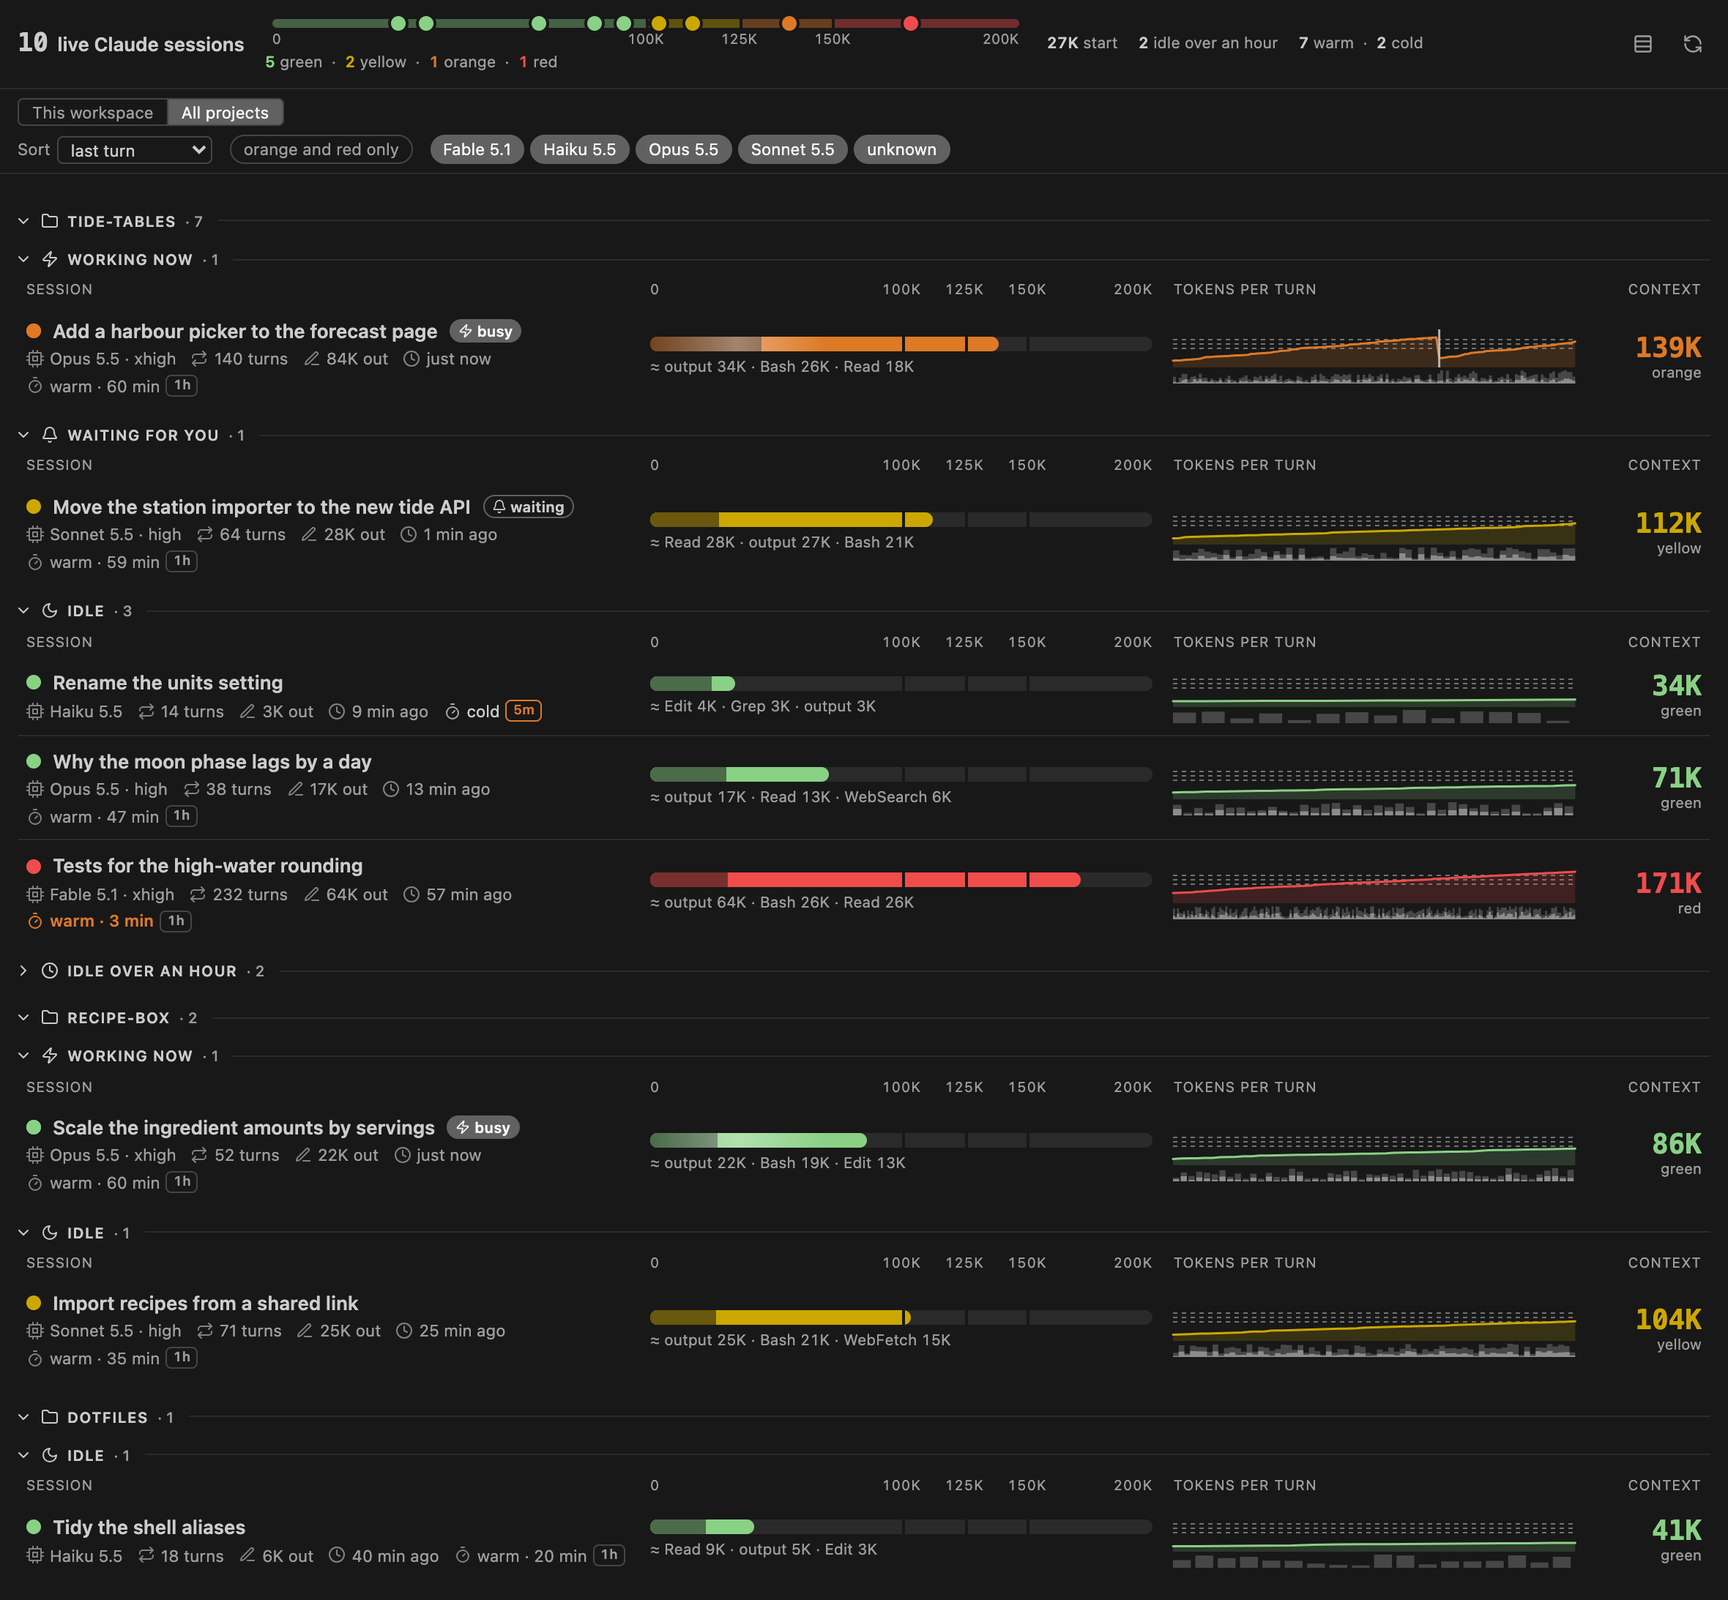
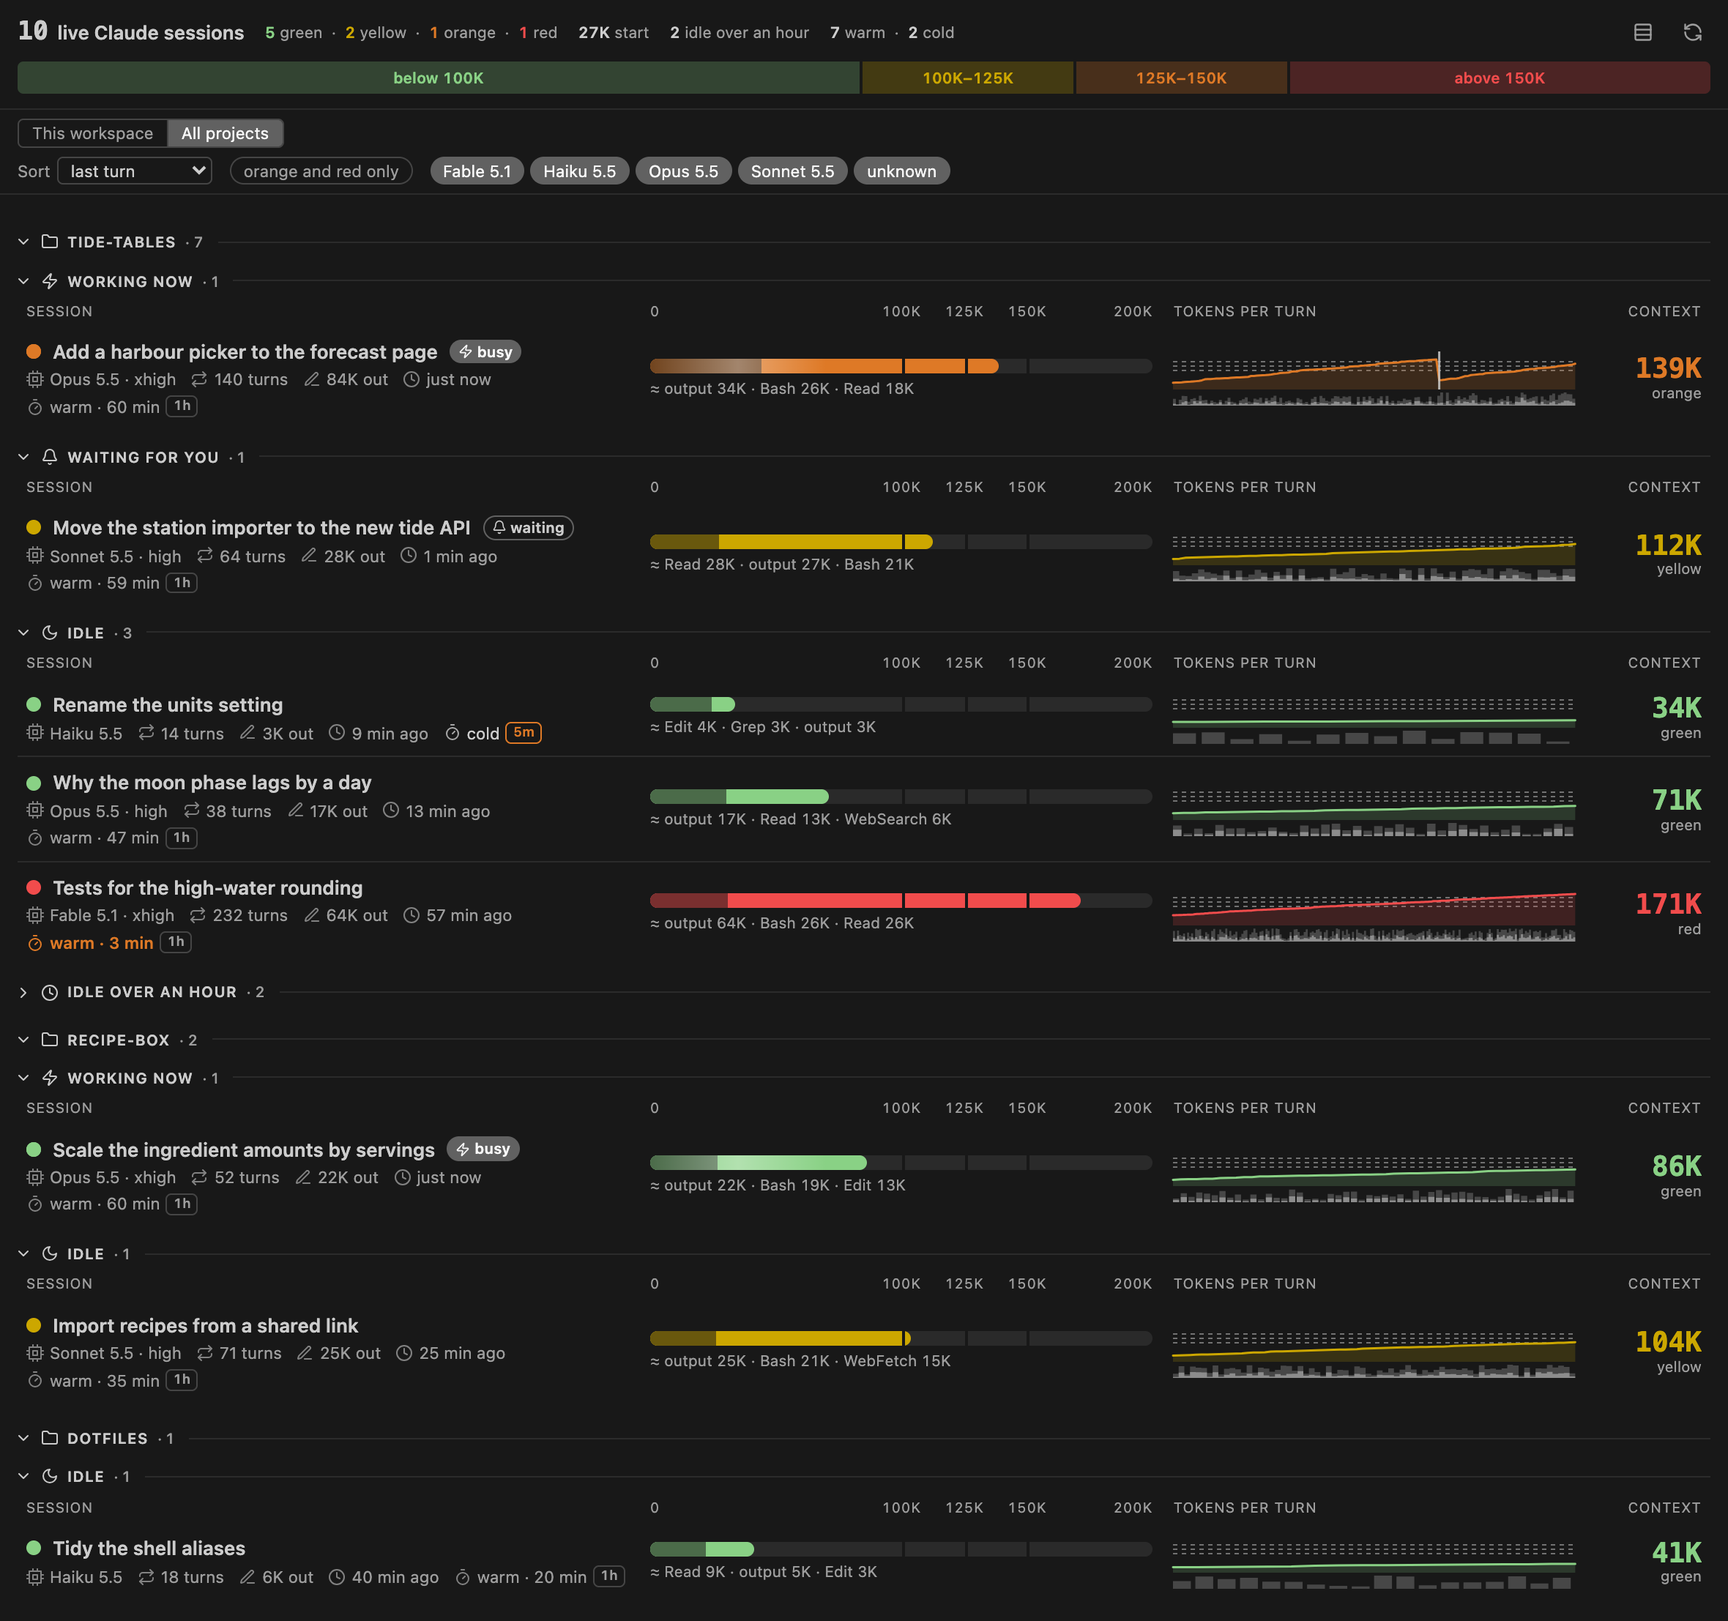
#54 The zone scale is a thick strip across the header with each zone's range written inside
The owner found the thin strip with a dot per session hard to read and asked for a thick full-width strip with
the zone written inside each band. The strip is now the header's last row, 22 px high, each zone a tinted band
at its true width with its range inside in the zone colour: "below 100K", "100K–125K", "125K–150K", "above 150K"
from about 560 px wide, "<100K", "100K+", "125K+", ">150K" below, because the yellow and orange bands are only
12.5 % of the strip. The dots, the labels under the strip and the hatched end are gone; the count per zone moves
up beside the session count. A band's tooltip still gives the zone's advice.

diff --git a/panel.html b/panel.html
@@ -67,35 +67,27 @@
   .kx-toggle[aria-pressed="true"] { color: var(--kx-fg); background: var(--kx-row-hover); border-color: var(--kx-border-strong); }
   .kx-refresh[aria-busy="true"] svg { animation: kx-spin 0.8s linear infinite; } /* spins until the next list arrives */
   @keyframes kx-spin { to { transform: rotate(360deg); } }
-  /* The zone scale: the row bar's 0–200K with each zone as a band at its true width, the limits labelled under it, and a
-     dot per listed session at its count; the legend counts the sessions per zone. No fixed min-width: the item is at
-     least as wide as its legend, so the counters beside it wrap to the next line instead of drawing over it. */
-  .kx-meter { flex: 1 1 240px; max-width: 520px; display: flex; flex-direction: column; gap: 3px; } /* at full width a wider strip only spreads the dots */
-  /* padded by half a dot, so a dot at 0 or at the end stays inside the header */
-  .kx-zscale { container-type: inline-size; padding: 0 5px; }
-  /* the dots sit over the track, which clips the bands and the hatched end to its rounded corners */
-  .kx-zbands { position: relative; height: 6px; margin: 3px 0; }
-  .kx-ztrack { position: relative; display: flex; height: 100%; border-radius: 3px; overflow: hidden; }
-  /* the bands are muted so a dot in its own zone's colour stands out on them; a gap at every limit, as on the row bar */
-  .kx-zband { height: 100%; width: calc(var(--w) * 1%); background: color-mix(in srgb, var(--kx-zone-fill, var(--kx-muted)) 40%, var(--kx-bg)); }
-  .kx-zband + .kx-zband { border-left: 2px solid var(--kx-bg); }
-  .kx-zmark {
-    position: absolute; top: 50%; left: calc(var(--t) * 1%); width: 10px; height: 10px; border-radius: 50%;
-    transform: translate(-50%, -50%); background: var(--kx-zone-fill, var(--kx-muted)); box-shadow: 0 0 0 2px var(--kx-bg);
+  /* The zone scale: a thick strip across the header, the row bar's 0–200K with each zone as a band at its true width
+     and its range written inside, so the limits are in view before any row. Tinted, with the text in the zone colour,
+     so it reads in light and dark themes. */
+  .kx-zscale { flex: 1 1 100%; container-type: inline-size; display: flex; gap: 2px; height: 22px; }
+  .kx-zband {
+    flex: var(--w) 1 0; min-width: 0; overflow: hidden; display: flex; align-items: center; justify-content: center;
+    background: color-mix(in srgb, var(--kx-zone-fill, var(--kx-muted)) 24%, var(--kx-bg)); color: var(--kx-zone-text, var(--kx-muted));
+    font-size: 0.8em; font-weight: 600; font-variant-numeric: tabular-nums; white-space: nowrap;
   }
-  .kx-zlabels { position: relative; height: 1em; font-size: 0.74em; line-height: 1; color: var(--kx-muted); font-variant-numeric: tabular-nums; }
-  .kx-zlabels span { position: absolute; top: 0; left: calc(var(--t) * 1%); transform: translateX(-50%); white-space: nowrap; }
-  .kx-zlabels span:first-child { transform: none; }
-  .kx-zlabels span:last-child { transform: translateX(-100%); }
-  /* 100K, 125K and 150K sit 12.5 % apart and "125K" is about 26 px wide; under about 280 px every second label drops a row */
-  @container (max-width: 279px) {
-    .kx-zlabels { height: 2em; }
-    .kx-zlabels span:nth-child(even) { top: 1em; }
-  }
-  .kx-meter-leg { display: flex; flex-wrap: wrap; font-size: 0.82em; font-variant-numeric: tabular-nums; color: var(--kx-muted); white-space: nowrap; }
+  .kx-zband:first-child { border-radius: 4px 0 0 4px; }
+  .kx-zband:last-child { border-radius: 0 4px 4px 0; }
+  /* the yellow and orange bands are 12.5 % of the strip and "100K–125K" needs about 66 px: the long ranges from
+     about 560 px, "100K+" (about 34 px) below, a smaller size under about 280 px */
+  .kx-zshort { display: none; }
+  @container (max-width: 559px) { .kx-zlong { display: none; } .kx-zshort { display: inline; } }
+  @container (max-width: 279px) { .kx-zband { font-size: 0.7em; } }
+  /* the count per zone, beside the session count */
+  .kx-meter-leg { display: inline-flex; flex-wrap: wrap; font-size: 0.82em; font-variant-numeric: tabular-nums; color: var(--kx-muted); white-space: nowrap; }
   .kx-meter-leg span + span::before { content: "·"; margin: 0 6px; }
   .kx-meter-leg b { font-weight: 600; color: var(--kx-zone-text, inherit); }
-  /* the prompt-cache counters: warm and cold, beside the zone scale */
+  /* the prompt-cache counters: warm and cold, beside the zone counts */
   .kx-cache-counts { font-size: 0.82em; font-variant-numeric: tabular-nums; color: var(--kx-muted); white-space: nowrap; display: inline-flex; align-items: center; }
   .kx-cache-counts b { font-weight: 600; color: var(--kx-fg); }
   .kx-cache-counts span + span::before { content: "·"; margin: 0 6px; }
@@ -414,13 +406,7 @@
 <header>
   <h1><span class="kx-n" data-testid="count" aria-live="polite">0</span> live Claude sessions</h1>
   <span class="kx-showing" data-testid="showing" hidden></span>
-  <div class="kx-meter" data-testid="zones">
-    <div class="kx-zscale" data-testid="zone-scale" role="img" aria-label="no sessions">
-      <div class="kx-zbands"><div class="kx-ztrack"></div></div>
-      <div class="kx-zlabels"></div>
-    </div>
-    <div class="kx-meter-leg"></div>
-  </div>
+  <span class="kx-meter-leg" data-testid="zones"></span>
   <span class="kx-start-median" data-testid="start-median" hidden><b></b> start</span>
   <span class="kx-abandoned" data-testid="abandoned-count" hidden title="A closed VS Code chat tab keeps its process running until Developer: Reload Window or VS Code quits, and the panel cannot tell a closed tab from an open one, so some of these are probably closed tabs"><b></b> idle over an hour</span>
   <span class="kx-cache-counts" data-testid="cache-counts" title="Prompt cache: how many of the listed sessions have a warm cache now, and how many went cold"><span><b data-testid="cache-warm">0</b> warm</span><span><b data-testid="cache-cold">0</b> cold</span></span>
@@ -429,6 +415,7 @@
     <button type="button" class="kx-toggle" data-testid="compact" aria-pressed="false" aria-label="Compact rows"></button>
     <button type="button" class="kx-refresh" data-testid="refresh" aria-label="Refresh" title="Read the registry and every transcript again now"></button>
   </div>
+  <div class="kx-zscale" data-testid="zone-scale" role="img"></div>
 </header>
 <div class="kx-controls" data-testid="controls">
   <div class="kx-scope" data-testid="scope">
@@ -467,9 +454,6 @@
   const errorsEl = document.querySelector('[data-testid="errors"]');
   const listEl = document.querySelector('[data-testid="list"]');
   const zoneScaleEl = document.querySelector('[data-testid="zone-scale"]');
-  const zoneBandsEl = document.querySelector(".kx-zbands");
-  const zoneTrackEl = document.querySelector(".kx-ztrack");
-  const zoneLabelsEl = document.querySelector(".kx-zlabels");
   const meterLegEl = document.querySelector(".kx-meter-leg");
   const cacheWarmEl = document.querySelector('[data-testid="cache-warm"]');
   const cacheColdEl = document.querySelector('[data-testid="cache-cold"]');
@@ -1615,50 +1599,35 @@
     return `${n === 1 ? "the 1 session" : `the ${n} sessions`} ${where}`;
   }
 
-  /** Where a zone runs, from LIMITS: "below 100K", "100K–125K", "above 150K". */
-  function zoneRange(i) {
-    if (i === 0) return `below ${tokensText(LIMITS[0])}`;
-    if (i >= LIMITS.length) return `above ${tokensText(LIMITS[LIMITS.length - 1])}`;
-    return `${tokensText(LIMITS[i - 1])}–${tokensText(LIMITS[i])}`;
+  /** Where a zone runs, from LIMITS: "below 100K", "100K–125K", "above 150K"; `short` for a narrow band: "<100K", "100K+", ">150K". */
+  function zoneRange(i, short) {
+    const last = LIMITS.length;
+    if (i === 0) return short ? `<${tokensText(LIMITS[0])}` : `below ${tokensText(LIMITS[0])}`;
+    if (i >= last) return short ? `>${tokensText(LIMITS[last - 1])}` : `above ${tokensText(LIMITS[last - 1])}`;
+    return short ? `${tokensText(LIMITS[i - 1])}+` : `${tokensText(LIMITS[i - 1])}–${tokensText(LIMITS[i])}`;
   }
 
   /**
-   * The header's zone scale: the bands from 0 to SCALE split at LIMITS, the limits labelled, a dot per listed
-   * session with a known count (in the scope, before the view's filters, like every header counter), and the
-   * legend with the count per zone. A band's tooltip says what applies there (the core's zoneAdvice).
+   * The header's zone scale, the bands from 0 to SCALE split at LIMITS with each zone's range inside (the same
+   * on every list, but drawn from ZONES and LIMITS, so a new limit moves it), and the count per zone beside the
+   * session count. A band's tooltip says what applies there (the core's zoneAdvice).
    */
   function renderMeter(zoneCounts, data) {
     const counts = ZONES.map((z) => [z, Number.isFinite(zoneCounts[z]) ? zoneCounts[z] : 0]);
-    const known = counts.reduce((sum, [, n]) => sum + n, 0);
     const advice = data.zoneAdvice || {};
-    zoneTrackEl.textContent = "";
-    zoneBandsEl.replaceChildren(zoneTrackEl);
-    zoneLabelsEl.textContent = "";
+    zoneScaleEl.textContent = "";
     meterLegEl.textContent = "";
-    const ranges = ZONES.map((z, i) => `${ZONE_NAME[z]} ${zoneRange(i)}`);
-    zoneScaleEl.setAttribute("aria-label", `Zones on a ${SCALE_TEXT} scale: ${listText(ranges)}. ${known ? counts.map(([z, n]) => `${n} ${ZONE_NAME[z]}`).join(", ") : "No sessions with a known zone"}`);
+    zoneScaleEl.setAttribute("aria-label", `Zones on a ${SCALE_TEXT} scale: ${listText(ZONES.map((z, i) => `${ZONE_NAME[z]} ${zoneRange(i)}`))}`);
     const edges = [0, ...LIMITS, SCALE];
     ZONES.forEach((z, i) => {
       const band = zoned(el("span", "kx-zband"), z);
       band.dataset.testid = `band-${z}`;
       band.style.setProperty("--w", pct((edges[i + 1] - edges[i]) / SCALE));
       band.title = `${ZONE_NAME[z]} zone: ${zoneRange(i)}${advice[z] ? ` · ${advice[z]}` : ""}`;
-      zoneTrackEl.appendChild(band);
+      band.appendChild(el("span", "kx-zlong", zoneRange(i)));
+      band.appendChild(el("span", "kx-zshort", zoneRange(i, true)));
+      zoneScaleEl.appendChild(band);
     });
-    const marked = allSessions(data).filter((s) => Number.isFinite(s.tokens));
-    if (marked.some((s) => s.tokens > SCALE)) zoneTrackEl.appendChild(el("span", "kx-over"));
-    for (const s of marked) {
-      const mark = zoned(el("span", "kx-zmark"), s.zone);
-      mark.dataset.testid = "zone-mark";
-      mark.style.setProperty("--t", pct(share(s.tokens)));
-      mark.title = `${titleOf(s).text} · ${countLabel(s)}${s.tokens > SCALE ? `, over the ${tokensText(SCALE)} scale` : ""}`;
-      zoneBandsEl.appendChild(mark);
-    }
-    for (const v of edges) {
-      const label = el("span", "", tokensText(v));
-      label.style.setProperty("--t", pct(v / SCALE));
-      zoneLabelsEl.appendChild(label);
-    }
     for (const [z, n] of counts) {
       const item = zoned(el("span"), z);
       const b = el("b", "", String(n));

diff --git a/test/panel.test.js b/test/panel.test.js
@@ -196,50 +196,34 @@ describe("panel: the list", () => {
 });
 
 describe("panel: the zone scale", () => {
-  const marks = (p) => p.$$("zone-mark").map((m) => [m.style.getPropertyValue("--t"), m.dataset.zone]);
-
-  it("draws the zones at their true widths on 0–200K, the limits labelled, and says what applies in each", () => {
+  it("draws the zones at their true widths on 0–200K with each range inside, and says what applies in each", () => {
     const p = panel();
     p.send(list([session("a")]));
-    expect(["green", "yellow", "orange", "red"].map((z) => p.$(`band-${z}`).style.getPropertyValue("--w"))).toEqual(["50", "12.5", "12.5", "25"]);
-    expect([...p.doc.querySelectorAll(".kx-zlabels span")].map((s) => s.textContent)).toEqual(["0", "100K", "125K", "150K", "200K"]);
+    const bands = ["green", "yellow", "orange", "red"].map((z) => p.$(`band-${z}`));
+    expect(bands.map((b) => b.style.getPropertyValue("--w"))).toEqual(["50", "12.5", "12.5", "25"]);
+    expect(bands.map((b) => b.querySelector(".kx-zlong").textContent)).toEqual(["below 100K", "100K–125K", "125K–150K", "above 150K"]);
+    expect(bands.map((b) => b.querySelector(".kx-zshort").textContent)).toEqual(["<100K", "100K+", "125K+", ">150K"]);
     expect(p.$("band-green").title).toBe("green zone: below 100K");
     expect(p.$("band-yellow").title).toBe("yellow zone: 100K–125K · Plan to break at the next phase boundary.");
     expect(p.$("band-red").title).toMatch(/^red zone: above 150K · Do not start a new phase/);
   });
 
-  it("marks every session with a known count at its count in its zone colour, above the scale at the end", () => {
+  it("is the same with no sessions, and one image to assistive technology, its label naming the limits", () => {
     const p = panel();
-    p.send(list([session("a", { tokens: 39000 }), session("b", { tokens: 160000, title: "Big one" }), session("c", { tokens: null, turns: 0 })]));
-    expect(marks(p)).toEqual([["19.5", "green"], ["80", "red"]]);
-    expect(p.$$("zone-mark")[1].title).toBe("Big one · 160K tokens, zone red");
-    expect(p.doc.querySelector(".kx-ztrack .kx-over")).toBeNull();
-    p.send(list([session("a", { tokens: 250000 })]));
-    expect(marks(p)).toEqual([["100", "red"]]);
-    expect(p.$$("zone-mark")[0].title).toMatch(/over the 200K scale$/);
-    expect(p.doc.querySelector(".kx-ztrack .kx-over")).not.toBeNull();
+    p.send(list([]));
+    expect(p.$$("band-green")).toHaveLength(1);
+    expect(p.$("zone-scale").getAttribute("role")).toBe("img");
+    expect(p.$("zone-scale").getAttribute("aria-label")).toBe(
+      "Zones on a 0–200K scale: green below 100K, yellow 100K–125K, orange 125K–150K and red above 150K");
   });
 
-  it("follows the scope, and not the view's filters, as the counts do", () => {
+  it("keeps the count per zone beside the session count, for the scope", () => {
     const p = panel();
     const mine = session("a", { tokens: 39000 }), other = session("b", { tokens: 130000, cwd: OTHER });
     p.send(list([mine, other], { workspaceFolders: [MINE] }));
-    expect(marks(p)).toEqual([["19.5", "green"]]);
+    expect(["green", "orange"].map((z) => p.$(`zone-${z}`).textContent)).toEqual(["1", "0"]);
     p.send(list([mine, other], { workspaceFolders: [MINE], all: true }));
-    expect(marks(p).sort()).toEqual([["19.5", "green"], ["65", "orange"]]);
-    expect(p.$("zone-orange").textContent).toBe("1");
-    p.$("filter-hot").click(); // hides the green row, not its mark
-    expect(marks(p)).toHaveLength(2);
-  });
-
-  it("is one image to assistive technology, its label naming the limits and the counts", () => {
-    const p = panel();
-    p.send(list([session("a", { tokens: 39000 }), session("b", { tokens: 160000 })]));
-    expect(p.$("zone-scale").getAttribute("role")).toBe("img");
-    expect(p.$("zone-scale").getAttribute("aria-label")).toBe(
-      "Zones on a 0–200K scale: green below 100K, yellow 100K–125K, orange 125K–150K and red above 150K. 1 green, 0 yellow, 0 orange, 1 red");
-    p.send(list([]));
-    expect(p.$("zone-scale").getAttribute("aria-label")).toMatch(/\. No sessions with a known zone$/);
+    expect(["green", "orange"].map((z) => p.$(`zone-${z}`).textContent)).toEqual(["1", "1"]);
   });
 });
 

diff --git a/README.md b/README.md
@@ -167,16 +167,16 @@ quality, not about the window limit. The header draws them, so the limits are in
 
 ### Header
 
-The count of live sessions and the zone scale: the row bar's 0–200K with each zone as a band at its true width,
-the limits labelled under it, and a dot per listed session at its count, in its zone colour, so you see at once
-where the limits are and how close each session is to the next one. Point at a band for what to do at the next
-phase boundary in that zone, at a dot for the session and its count; under the scale, how many sessions are in
-each zone. Then the warm and cold prompt
+The count of live sessions and how many are in each zone; the warm and cold prompt
 caches; the median start of the sessions that began fresh, so a CLAUDE.md that grew shows at a glance; and
 "3 idle over an hour" when there are such sessions. While a filter hides sessions it says "showing 4 of 10".
 At the right end, the compact switch and the refresh button: refresh reads the registry and every transcript
 again from the first byte, and says "updated 12:04:31" when done. Click it when you doubt what the list shows,
 for example right after a process was ended.
+
+Across the bottom of the header, the zone scale: a strip with the row bar's 0–200K, each zone a band at its true
+width with its range written inside ("below 100K", "100K–125K" …; "<100K", "100K+" … when the panel is narrow),
+so the limits are in view before any row. Point at a band for what to do at the next phase boundary in that zone.
 
 ### Groups
 
